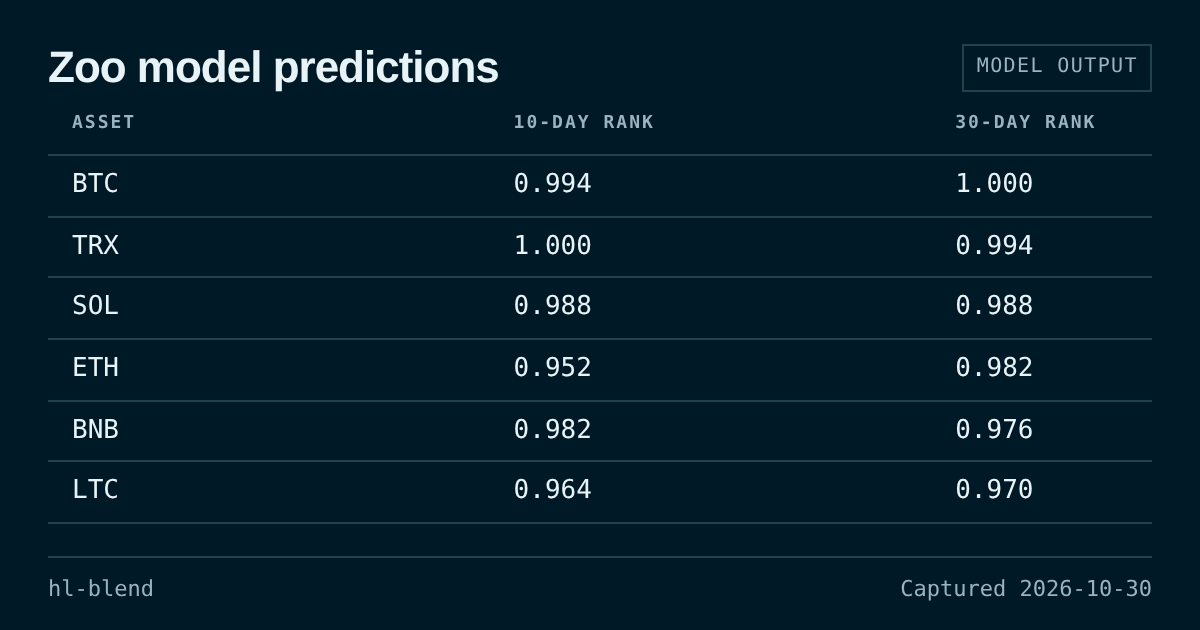
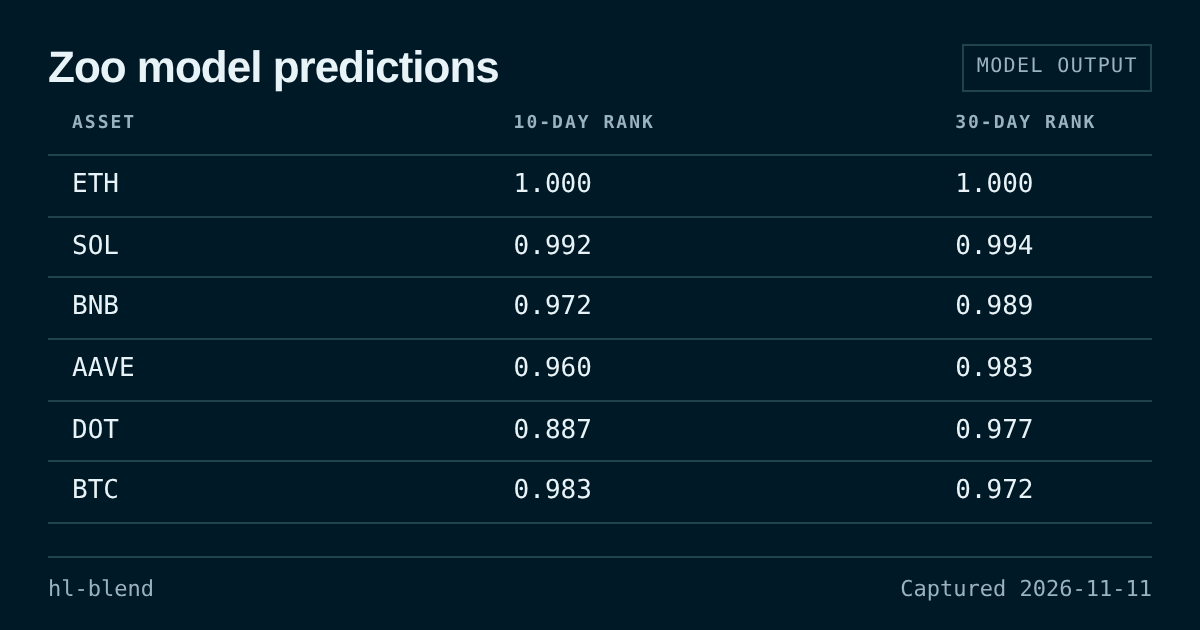
zoo_quickstart: the intro names the blend as the default
The intro said the default was the XGBoost baseline. The recipe opens on
hl-blend, the rank average of the ridge, XGBoost, LightGBM and MLP
models. The capture is regenerated from the edited notebook.

diff --git a/recipes/zoo_quickstart/zoo_quickstart.py b/recipes/zoo_quickstart/zoo_quickstart.py
@@ -55,8 +55,9 @@ def _(mo):
     submits to the `hyperliquid-ranking` challenge. There is no training
     step. The `zoo_models` recipe shows how each model was made.
 
-    The default is the XGBoost baseline. Pick another model below, or set a
-    run parameter such as `model=hl-ridge-baseline`.
+    The default is `hl-blend`, the rank average of the ridge, XGBoost,
+    LightGBM and MLP models. Pick another model below, or set a run
+    parameter such as `model=hl-ridge-baseline`.
 
     Cloud runs, including scheduled runs, submit automatically to slot 1.
     In an interactive notebook, submission waits for the button below.
